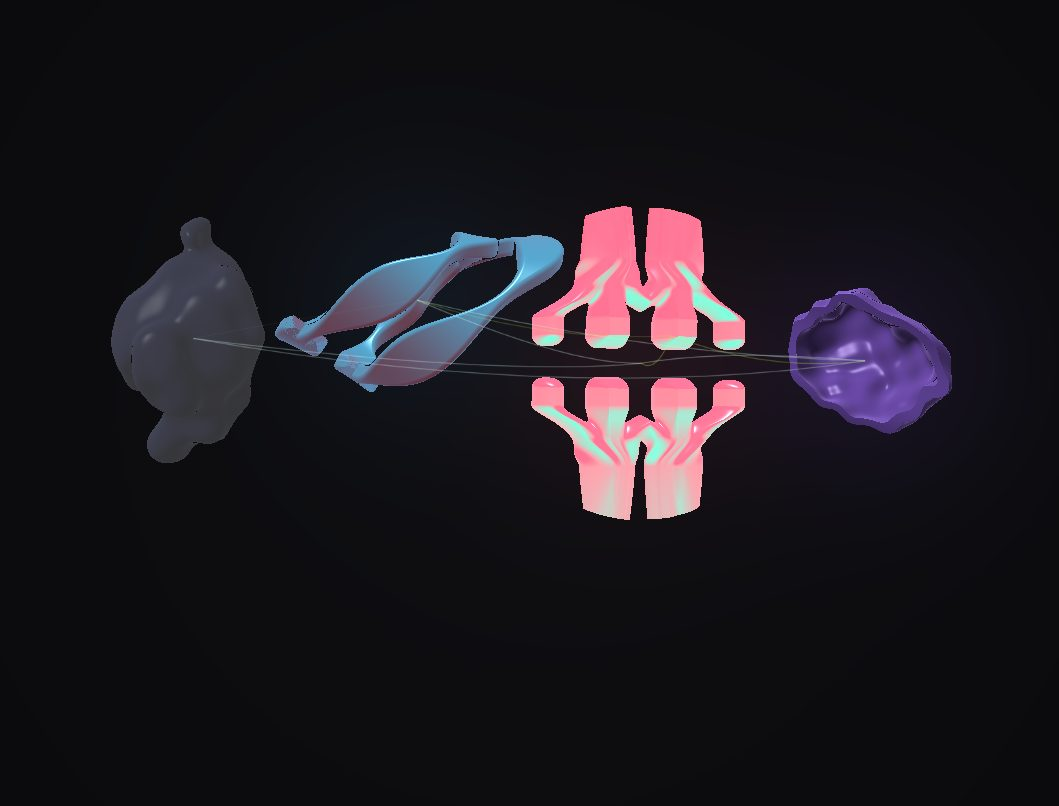
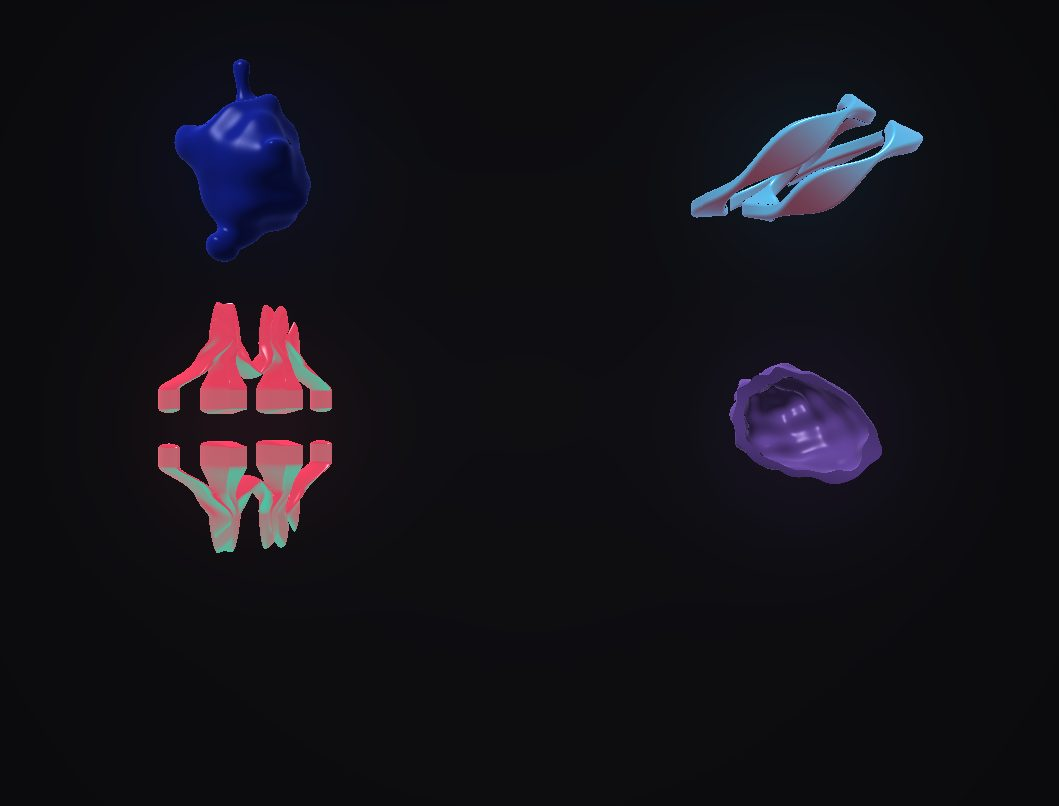
Lay the deities and the sections out two by two
XR and Tools on the top row, Art and Community under them, matching in both
places.

The hero was a single row of four across the full width. Stacked two deep they
need more vertical room than the viewport has at that size, so the cluster now
sits further from the camera (z 1.5) rather than being scaled down by hand:
proj() and the shader both read z, and the on-screen radius follows it, so the
labels stay put. Row spacing leaves the lower pair's labels 17px clear of the
hero copy.

The portrait layout was already two by two and keeps its own spans.

Re-shot assets/pantheon-still.jpg to match, using the reduced-motion frame so
all four read evenly rather than one being awake and three asleep.

Changed region(s): [[0.0935, 0.062, 0.9037, 0.6824]]

diff --git a/js/pantheon.js b/js/pantheon.js
@@ -108,19 +108,26 @@ function start() {
 
     const aspect = W / H;
     const halfW = (aspect / 2) * CAMZ / FOC, halfH = 0.5 * CAMZ / FOC;
-    if (aspect >= 1) {
-      const span = Math.min(halfW - RB - 0.2, 3.0);
-      deities.forEach(function (d, i) {
-        const x = -span + i * (2 * span / 3);
-        d.pos = [x, 0.35 + 0.22 * Math.sin(i * 1.9), 0];
-      });
-    } else {
-      deities.forEach(function (d, i) {
-        const x = (i % 2 ? 1 : -1) * Math.min(halfW - RB - 0.05, 1.1);
-        const y = (i < 2 ? 1 : -0.3) * Math.min(halfH * 0.55, 1.25) + 0.4;
-        d.pos = [x, y, 0];
-      });
-    }
+
+    // Two by two, in the order the sections run below: XR and Tools on the top
+    // row, Art and Community under them. The whole block sits above centre so
+    // the lower pair's labels stay clear of the hero copy.
+    const wide = aspect >= 1;
+    const spanX = wide
+      ? Math.min(halfW - RB - 0.2, 2.1)
+      : Math.min(halfW - RB - 0.05, 1.1);
+    const spanY = Math.min(halfH - RB - 0.1, wide ? 0.86 : 1.15);
+    const lift = wide ? 0.70 : 0.4;
+    // Stacked two deep they need more room than a single row did, so the whole
+    // cluster sits further from the camera. proj() and the shader both read z,
+    // so this shrinks them honestly rather than faking a scale.
+    const depth = wide ? 1.5 : 0.8;
+
+    deities.forEach(function (d, i) {
+      const col = (i % 2) ? 1 : -1;
+      const row = (i < 2) ? 1 : -1;
+      d.pos = [col * spanX, row * spanY + lift, depth];
+    });
   }
   window.addEventListener('resize', layout);
   layout();
@@ -159,7 +166,7 @@ function start() {
     deities.forEach(function (d) {
       const sp = proj(d.pos);
       d.sx = sp[0]; d.sy = sp[1];
-      d.sr = RB * FOC / CAMZ * H;
+      d.sr = RB * FOC / (CAMZ + d.pos[2]) * H;
       d.el.style.left = d.sx + 'px';
       d.el.style.top = (d.sy + d.sr * 1.05) + 'px';
     });
@@ -238,7 +245,7 @@ function start() {
     deities.forEach(function (d) {
       const sp = proj(d.pos);
       d.sx = sp[0]; d.sy = sp[1];
-      d.sr = RB * FOC / CAMZ * H;
+      d.sr = RB * FOC / (CAMZ + d.pos[2]) * H;
 
       const dist = Math.hypot(mouse.x - d.sx, mouse.y - d.sy);
       const target = present ? ss(3.0 * d.sr, 0.7 * d.sr, dist) : 0;

diff --git a/css/home.css b/css/home.css
@@ -175,12 +175,14 @@ button:focus-visible {
 /* ---------- the four hats ---------- */
 
 .hats {
-  max-width: 1100px;
+  max-width: 900px;
   margin: 0 auto;
   padding: 80px 24px 40px;
   display: grid;
-  gap: 48px 40px;
-  grid-template-columns: repeat(auto-fit, minmax(240px, 1fr));
+  gap: 56px 48px;
+  /* Two by two, in the same order as the deities above: XR and Tools, then
+     Art and Community. */
+  grid-template-columns: repeat(2, minmax(0, 1fr));
 }
 
 .hat h2 {
@@ -266,6 +268,7 @@ button:focus-visible {
   .hats {
     padding: 48px 16px 32px;
     gap: 40px;
+    grid-template-columns: minmax(0, 1fr);
   }
   .site-footer { padding: 32px 16px 56px; }
 }
